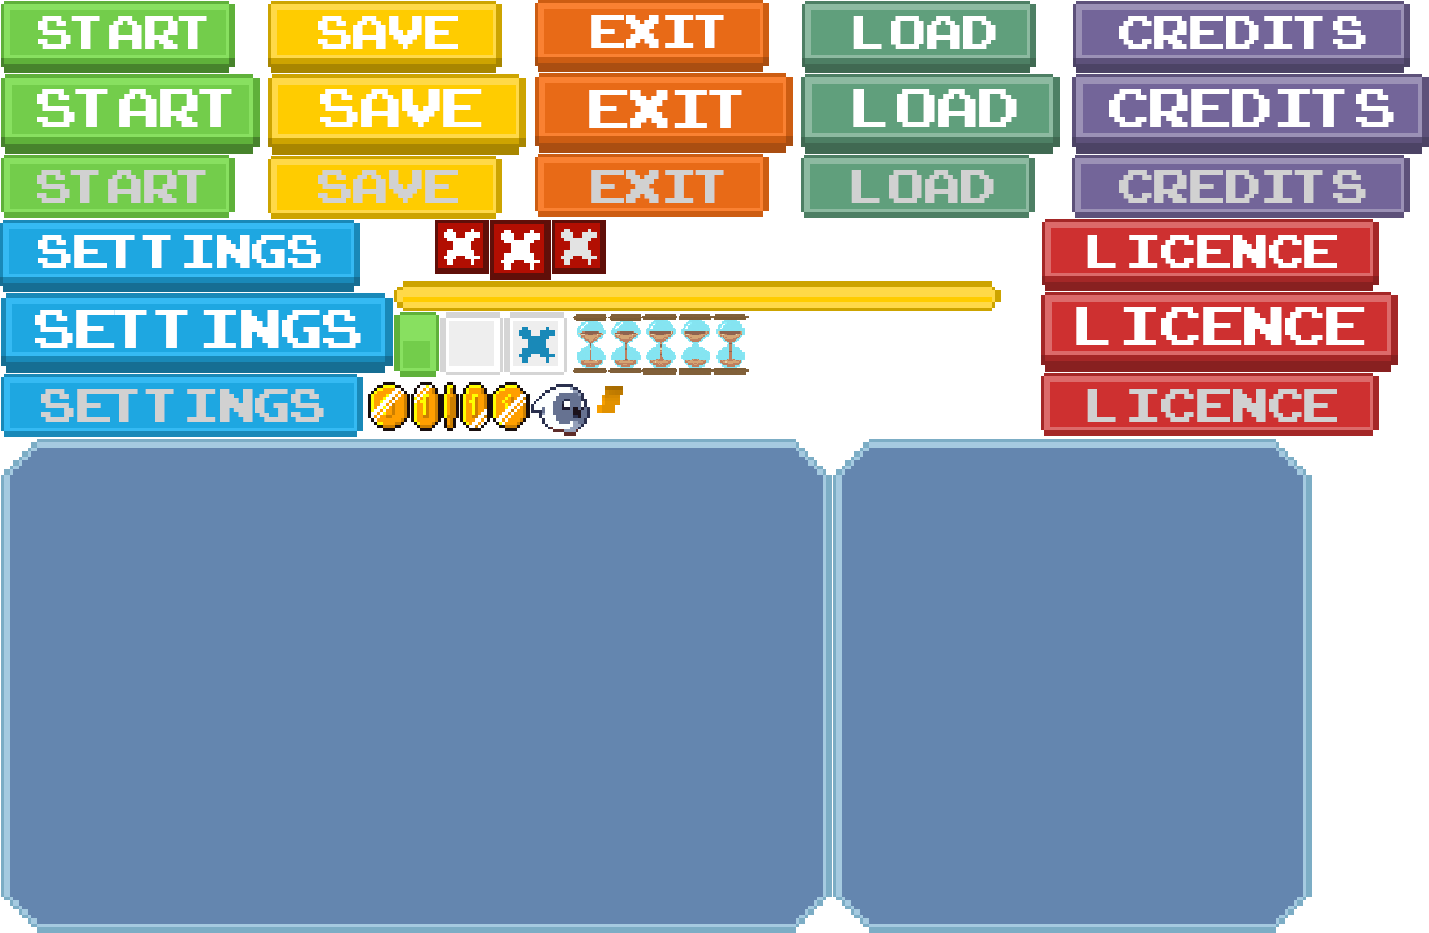
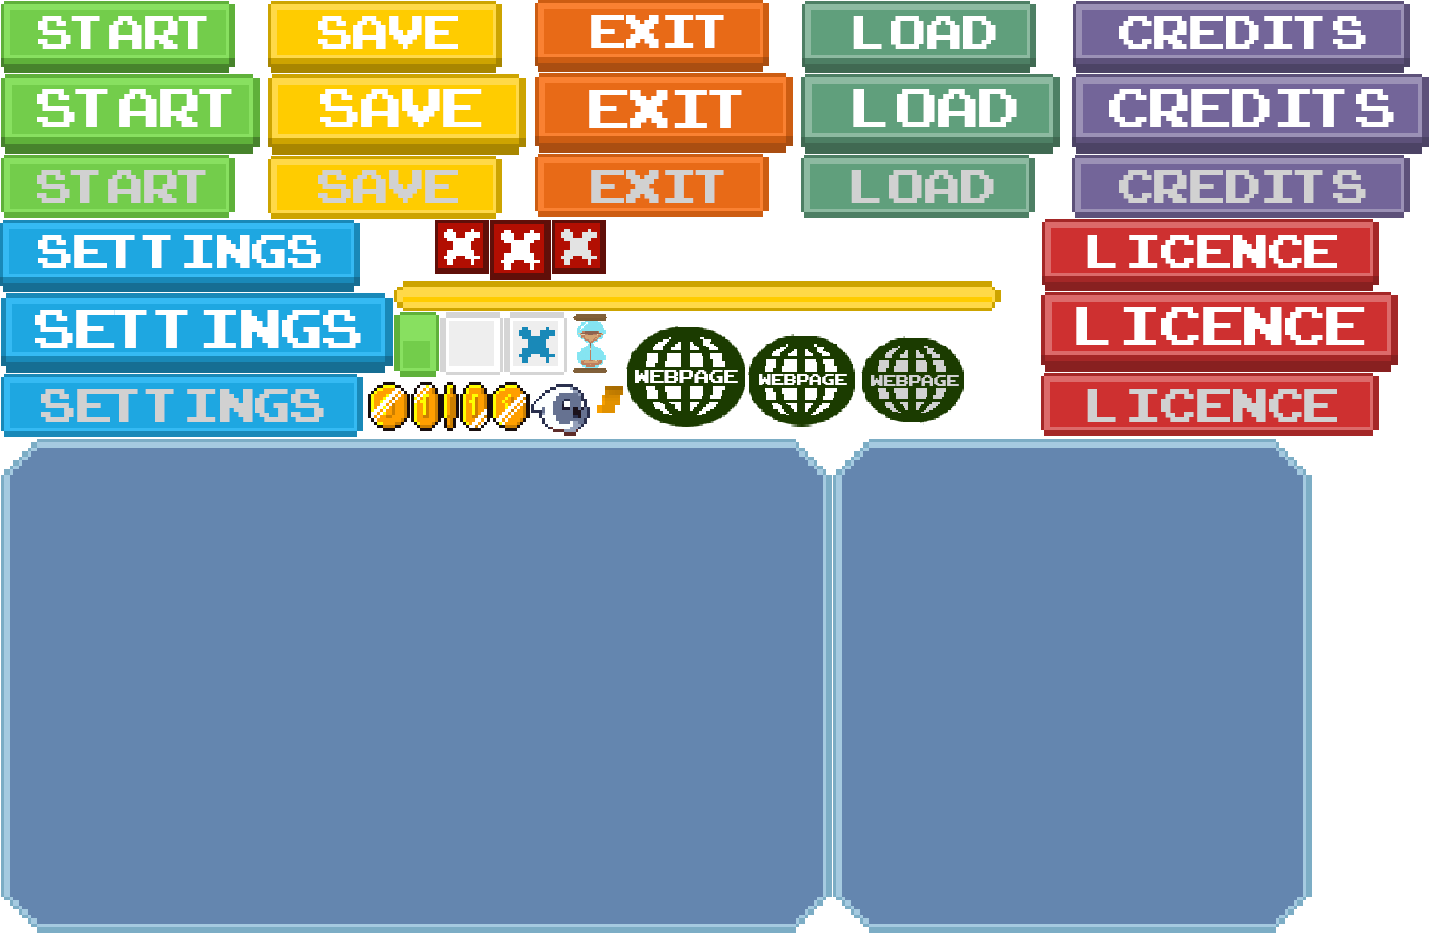
Webpage button added

Changed region(s): [[0.4311, 0.3108, 0.6774, 0.4662]]

diff --git a/Plataformer_2D/Motor2D/j1Scene_UI.cpp b/Plataformer_2D/Motor2D/j1Scene_UI.cpp
@@ -85,8 +85,10 @@ bool j1SceneUI::Addsceneintro_UI()
 	load_button->element_action = LOAD;
 	credits_button = App->gui->AddButton(350, 550, App->gui->GetAtlas(), { 1073,1,337,72 }, { 1072,74,357,80 }, { 1072,155,338,63 }, this);
 	credits_button->element_action = CREDITS;
-	settings_button = App->gui->AddButton(350, 450, App->gui->GetAtlas(), { 0,220,360,72 }, { 1,293,392,80 }, { 1,374,362,63 }, this);
+	settings_button = App->gui->AddButton(340, 450, App->gui->GetAtlas(), { 0,220,360,72 }, { 1,293,392,80 }, { 1,374,362,63 }, this);
 	settings_button->element_action = SETTINGS;
+	webpage_button = App->gui->AddButton(25, 650, App->gui->GetAtlas(), { 749,336,106,88 }, { 627,327,118,99 }, { 862,338,102,84 }, this);
+	webpage_button->element_action = WEBPAGE;
 	exit_button = App->gui->AddButton(400, 650, App->gui->GetAtlas(), { 535,1,234,71 }, { 535,73,258,80 }, { 535,154,234,63 }, this);
 	exit_button->element_action = EXIT;
 	
@@ -102,6 +104,7 @@ bool j1SceneUI::Deletesceneintro_UI()
 	App->gui->DeleteGui(load_button);
 	App->gui->DeleteGui(credits_button);
 	App->gui->DeleteGui(settings_button);
+	App->gui->DeleteGui(webpage_button);
 	App->gui->DeleteGui(exit_button);
 
 	return true;
@@ -197,7 +200,8 @@ bool j1SceneUI::back_intro_UI()
 	play_button = App->gui->AddButton(400, 250, App->gui->GetAtlas(), { 1,1,234,72 }, { 1,74,259,80 }, { 1,155,234,63 });
 	load_button = App->gui->AddButton(400, 350, App->gui->GetAtlas(), { 802,1,234,72 }, { 801,74,259,80 }, { 801,155,234,63 });
 	credits_button = App->gui->AddButton(350, 550, App->gui->GetAtlas(), { 1073,1,337,72 }, { 1072,74,357,80 }, { 1072,155,338,63 });
-	settings_button = App->gui->AddButton(350, 450, App->gui->GetAtlas(), { 0,220,360,72 }, { 1,293,392,80 }, { 1,374,362,63 });
+	settings_button = App->gui->AddButton(340, 450, App->gui->GetAtlas(), { 0,220,360,72 }, { 1,293,392,80 }, { 1,374,362,63 });
+	webpage_button = App->gui->AddButton(25, 650, App->gui->GetAtlas(), { 749,336,106,88 }, { 627,327,118,99 }, { 862,338,102,84 });
 	exit_button = App->gui->AddButton(400, 650, App->gui->GetAtlas(), { 535,1,234,71 }, { 535,73,258,80 }, { 535,154,234,63 });
 
 	return true;
@@ -211,6 +215,7 @@ bool j1SceneUI::delete_intro_UI()
 	App->gui->DeleteGui(load_button);
 	App->gui->DeleteGui(credits_button);
 	App->gui->DeleteGui(settings_button);
+	App->gui->DeleteGui(webpage_button);
 	App->gui->DeleteGui(exit_button);
 
 	return true;
@@ -382,6 +387,10 @@ bool j1SceneUI::OnUIEvent(UI_element* element, event_type event_type)
 			Deletepause_UI();
 			Deleteingame_UI();
 			pause_UI = false;
+		}
+		else if (element->element_action == WEBPAGE)
+		{
+			ShellExecuteA(NULL, "open", "https://marcpt98.github.io/Plataformer-2D/", NULL, NULL, SW_SHOWNORMAL);
 		}
 	}
 	else if (event_type == MOUSE_RIGHT_CLICK)

diff --git a/Plataformer_2D/Motor2D/j1Scene_UI.h b/Plataformer_2D/Motor2D/j1Scene_UI.h
@@ -56,6 +56,7 @@ public:
 	UI_button* load_button = nullptr;
 	UI_button* settings_button = nullptr;
 	UI_button* credits_button = nullptr;
+	UI_button* webpage_button = nullptr;
 	UI_button* exit_button = nullptr;
 	bool exit = false;
 

diff --git a/Plataformer_2D/Motor2D/UI_element.h b/Plataformer_2D/Motor2D/UI_element.h
@@ -40,7 +40,8 @@ enum UI_element_action
 	LICENCE,
 	EXIT_LICENCE,
 	EXIT_PAUSE,
-	EXIT_MENU
+	EXIT_MENU,
+	WEBPAGE
 };
 
 class UI_element :public j1Module
